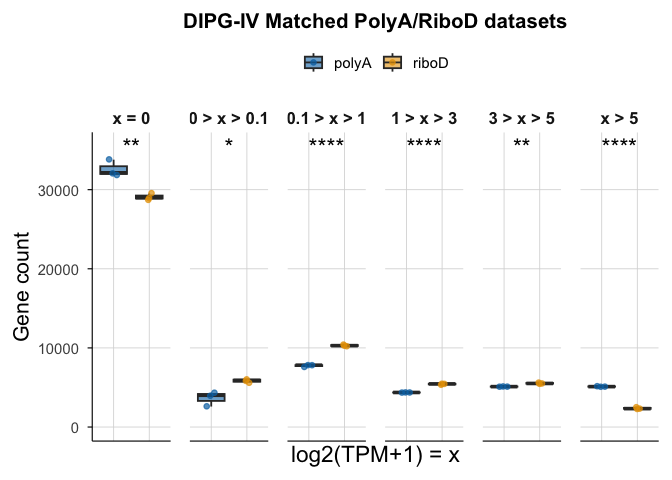
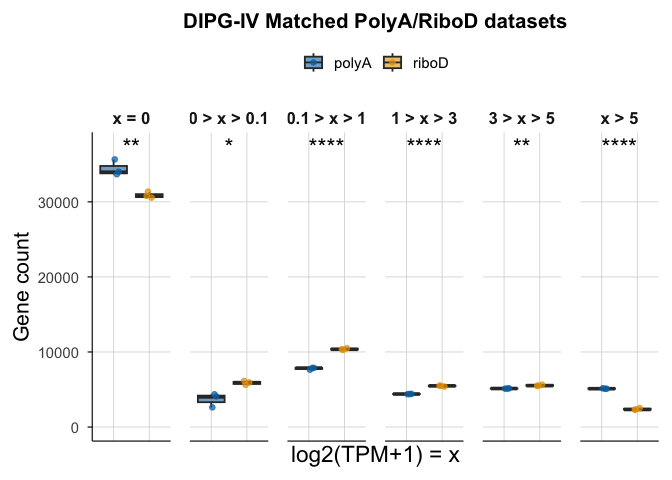
THR13_0970_S12-S17_unique_genes_ensemblID

diff --git a/THR13_0970_S12-S17/THR13_0970_S12-S17_unique_genes.md b/THR13_0970_S12-S17/THR13_0970_S12-S17_unique_genes.md
@@ -38,14 +38,14 @@ library(cowplot)
         stamp
 
 ``` r
-rsem_log2TPM1_THR13 <- read_tsv("../input_data/matched_THR13_0970/rsem_log2TPM1_THR13_0970_S12-S17.tsv.gz")
+rsem_log2TPM1_THR13 <- read_tsv("../input_data/matched_THR13_0970/rsem_ensembl_log2TPM1_THR13_0970_S12-S17.tsv.gz")
 ```
 
-    Rows: 351486 Columns: 8
+    Rows: 362988 Columns: 8
     ── Column specification ────────────────────────────────────────────────────────
     Delimiter: "\t"
-    chr (4): full_sample, HugoID, lib_prep, sample
-    dbl (3): max_length, TPM, log2TPM1
+    chr (5): full_sample, ensembl_gene_ID, HugoID, lib_prep, sample
+    dbl (2): TPM, log2TPM1
     lgl (1): is_treehouse_druggable_gene
 
     ℹ Use `spec()` to retrieve the full column specification for this data.
@@ -182,12 +182,12 @@ print(stats_THR13)
     # A tibble: 6 × 6
       Disease Bin      Shapiro_polyA_p Shapiro_riboD_p VarTest_p    TTest_p
       <chr>   <fct>              <dbl>           <dbl>     <dbl>      <dbl>
-    1 DIPG4   0                 0.259            0.522    0.233  0.00565   
-    2 DIPG4   0-0.09            0.329            0.677    0.146  0.0170    
-    3 DIPG4   0.1-0.99          0.0866           0.677    0.800  0.0000131 
-    4 DIPG4   1-2.99            0.831            0.336    0.0698 0.0000125 
-    5 DIPG4   3-4.99            0.578            0.500    0.103  0.000864  
-    6 DIPG4   >5                0.363            0.311    0.151  0.00000285
+    1 DIPG4   0                  0.261           0.536    0.244  0.00556   
+    2 DIPG4   0-0.09             0.337           0.678    0.147  0.0169    
+    3 DIPG4   0.1-0.99           0.176           0.703    0.824  0.0000145 
+    4 DIPG4   1-2.99             0.637           0.370    0.113  0.00000858
+    5 DIPG4   3-4.99             0.843           0.489    0.0900 0.000973  
+    6 DIPG4   >5                 0.269           0.291    0.165  0.00000280
 
 Selecting test
 
@@ -307,12 +307,12 @@ sig_bins_THR13
 
 | Disease | Bin | polyA | riboD | p_value | test_used | padj | stars_adj |
 |:---|:---|:---|:---|---:|:---|---:|:---|
-| DIPG4 | 0 | 31846, 33790, 32130 | 28989, 29522, 28783 | 0.0056468 | student_t | 0.0067762 | \*\* |
-| DIPG4 | 0-0.09 | 4335, 2588, 4016 | 6076, 5562, 5895 | 0.0169543 | student_t | 0.0169543 | \* |
-| DIPG4 | 0.1-0.99 | 7817, 7594, 7829 | 10286, 10211, 10424 | 0.0000131 | student_t | 0.0000262 | \*\*\*\* |
-| DIPG4 | 1-2.99 | 4368, 4353, 4379 | 5476, 5452, 5347 | 0.0000125 | student_t | 0.0000262 | \*\*\*\* |
-| DIPG4 | 3-4.99 | 5107, 5096, 5132 | 5467, 5508, 5620 | 0.0008636 | student_t | 0.0012954 | \*\* |
-| DIPG4 | \>5 | 5108, 5160, 5095 | 2287, 2326, 2512 | 0.0000029 | student_t | 0.0000171 | \*\*\*\* |
+| DIPG4 | 0 | 33658, 35619, 33946 | 30751, 31299, 30532 | 0.0055581 | student_t | 0.0066697 | \*\* |
+| DIPG4 | 0-0.09 | 4350, 2595, 4022 | 6097, 5578, 5914 | 0.0169107 | student_t | 0.0169107 | \* |
+| DIPG4 | 0.1-0.99 | 7854, 7632, 7879 | 10356, 10274, 10499 | 0.0000145 | student_t | 0.0000291 | \*\*\*\* |
+| DIPG4 | 1-2.99 | 4398, 4378, 4408 | 5512, 5488, 5394 | 0.0000086 | student_t | 0.0000257 | \*\*\*\* |
+| DIPG4 | 3-4.99 | 5131, 5111, 5146 | 5478, 5519, 5634 | 0.0009731 | student_t | 0.0014597 | \*\* |
+| DIPG4 | \>5 | 5107, 5163, 5097 | 2304, 2340, 2525 | 0.0000028 | student_t | 0.0000168 | \*\*\*\* |
 
 Plot with stars
 
@@ -392,7 +392,7 @@ sessioninfo::session_info()
      collate  en_US.UTF-8
      ctype    en_US.UTF-8
      tz       America/Los_Angeles
-     date     2026-09-16
+     date     2026-09-17
      pandoc   3.8.3 @ /Applications/RStudio.app/Contents/Resources/app/quarto/bin/tools/aarch64/ (via rmarkdown)
      quarto   1.9.36 @ /Applications/RStudio.app/Contents/Resources/app/quarto/bin/quarto
 
